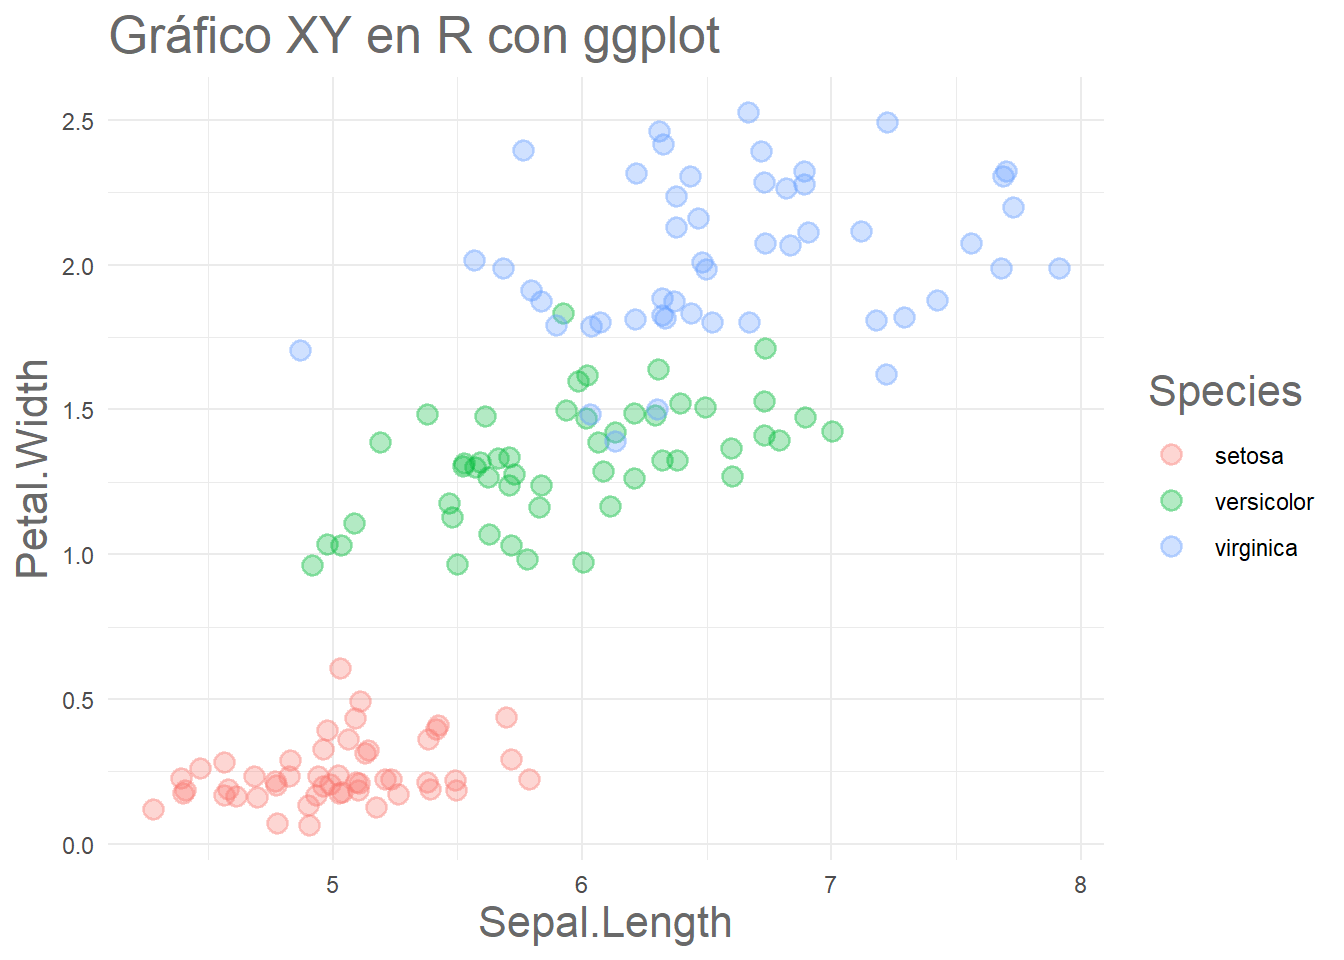
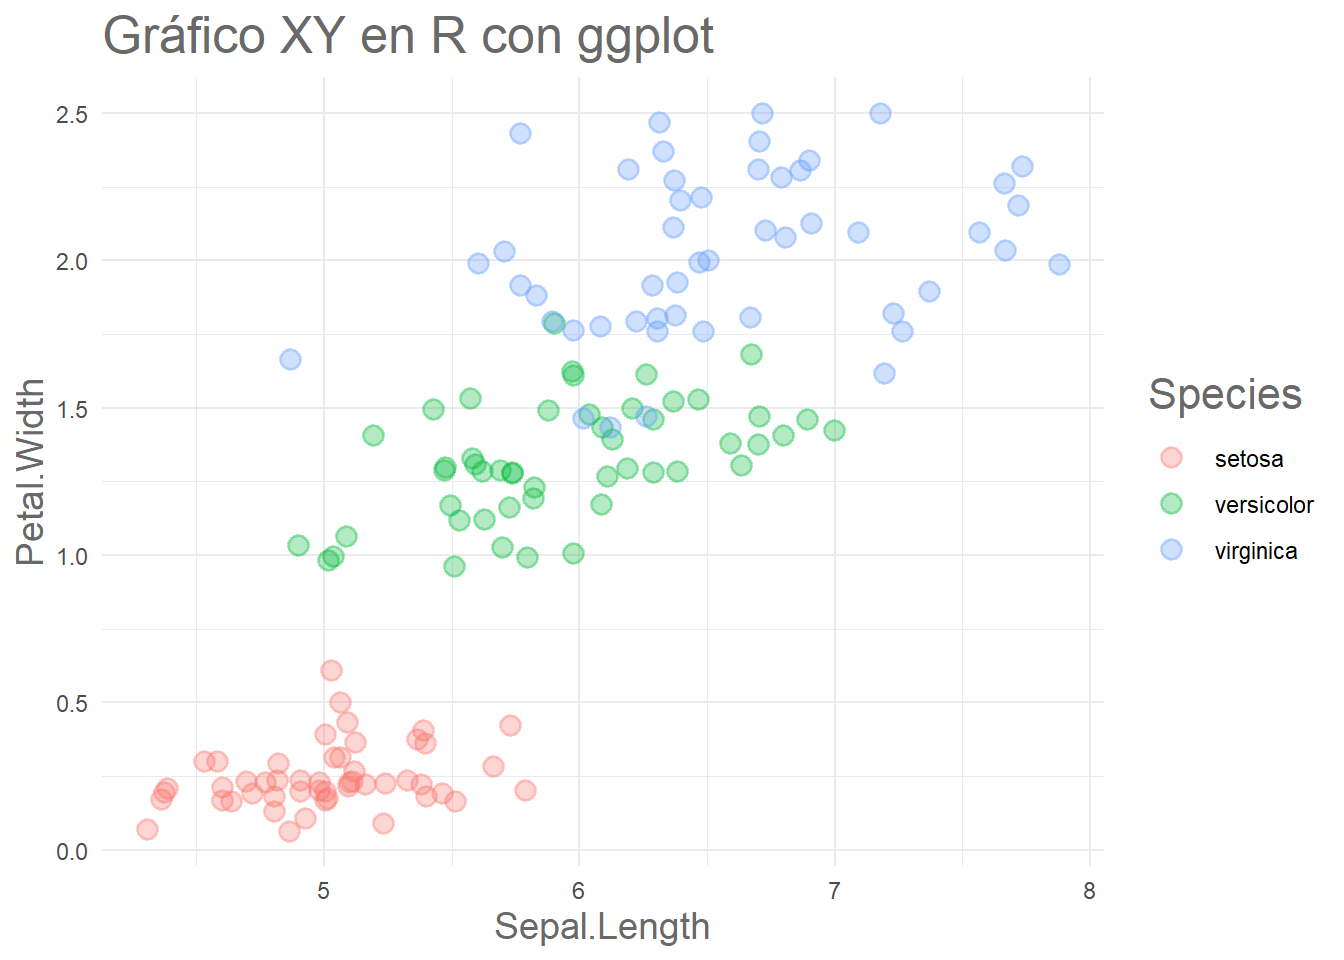
actualizacion excel XY

diff --git a/docs/posts/excel-xy/index.html b/docs/posts/excel-xy/index.html
@@ -278,9 +278,10 @@ code span.wa { color: #60a0b0; font-weight: bold; font-style: italic; } /* Warni
 <li>Añadimos las series una a una tal como hemos hecho antes</li>
 <li>Añadimos rótulos de ejes y gráfico, y otros detalles y retoques que creamos oportunos</li>
 </ul>
-<p>Este es mi gráfico XY final en Excel, que se puede comparar con el que hace <code>ggplot</code>.</p>
+<p>Modificando con el factor de multiplicación en las fórmulas de las columnas calculadas, podemos aumentar el efecto de <code>jitter</code> en caso de que el solapamiento sea excesivo. Al recalcular la tabla dinámica podremos ver el efecto producido y decidir si es bajo, excesivo, o es el que queremos.</p>
+<p>Este es mi gráfico XY final en Excel:</p>
 <p><img src="excel-graf-XY-final.png" class="img-fluid"></p>
-<p>Y este es el gráfico en <code>ggplot</code>, que vimos al principio del artículo</p>
+<p>Y este es el gráfico en <code>ggplot</code>, ligeramente modificado respecto al que vimos al principio del artículo</p>
 <div class="cell">
 <div class="sourceCode cell-code" id="cb3"><pre class="sourceCode r code-with-copy"><code class="sourceCode r"><span id="cb3-1"><a href="#cb3-1" aria-hidden="true" tabindex="-1"></a> <span class="fu">library</span> (ggplot2)</span>
 <span id="cb3-2"><a href="#cb3-2" aria-hidden="true" tabindex="-1"></a><span class="fu">ggplot</span> (iris, <span class="fu">aes</span>(<span class="at">x =</span> Sepal.Length, <span class="at">y =</span> Petal.Width, <span class="at">colour =</span> Species)) <span class="sc">+</span></span>
@@ -289,16 +290,16 @@ code span.wa { color: #60a0b0; font-weight: bold; font-style: italic; } /* Warni
 <span id="cb3-5"><a href="#cb3-5" aria-hidden="true" tabindex="-1"></a>  <span class="fu">theme_minimal</span>() <span class="sc">+</span></span>
 <span id="cb3-6"><a href="#cb3-6" aria-hidden="true" tabindex="-1"></a>  <span class="fu">theme</span>(</span>
 <span id="cb3-7"><a href="#cb3-7" aria-hidden="true" tabindex="-1"></a>    <span class="at">title =</span> <span class="fu">element_text</span>(<span class="at">size=</span><span class="dv">16</span>, <span class="at">face=</span><span class="st">'plain'</span>, <span class="at">colour =</span> <span class="st">"dimgray"</span>),</span>
-<span id="cb3-8"><a href="#cb3-8" aria-hidden="true" tabindex="-1"></a>    <span class="at">axis.title.x =</span> <span class="fu">element_text</span>(<span class="at">colour =</span> <span class="st">"dimgray"</span>),</span>
-<span id="cb3-9"><a href="#cb3-9" aria-hidden="true" tabindex="-1"></a>    <span class="at">axis.title.y =</span> <span class="fu">element_text</span>(<span class="at">colour =</span> <span class="st">"dimgray"</span>),</span>
-<span id="cb3-10"><a href="#cb3-10" aria-hidden="true" tabindex="-1"></a>    <span class="at">axis.title =</span> <span class="fu">element_text</span>(<span class="at">colour =</span> <span class="st">"dimgray"</span>),</span>
-<span id="cb3-11"><a href="#cb3-11" aria-hidden="true" tabindex="-1"></a>  )</span></code><button title="Copy to Clipboard" class="code-copy-button"><i class="bi"></i></button></pre></div>
+<span id="cb3-8"><a href="#cb3-8" aria-hidden="true" tabindex="-1"></a>    <span class="at">axis.title.x =</span> <span class="fu">element_text</span>(<span class="at">size =</span> <span class="dv">14</span>, <span class="at">colour =</span> <span class="st">"dimgray"</span>),</span>
+<span id="cb3-9"><a href="#cb3-9" aria-hidden="true" tabindex="-1"></a>    <span class="at">axis.title.y =</span> <span class="fu">element_text</span>(<span class="at">size =</span> <span class="dv">14</span>, <span class="at">colour =</span> <span class="st">"dimgray"</span>),</span>
+<span id="cb3-10"><a href="#cb3-10" aria-hidden="true" tabindex="-1"></a>  )</span></code><button title="Copy to Clipboard" class="code-copy-button"><i class="bi"></i></button></pre></div>
 <div class="cell-output-display">
 <p><img src="index_files/figure-html/unnamed-chunk-3-1.png" class="img-fluid" width="672"></p>
 </div>
 </div>
-<p>En Excel, jugando con el factor de multiplicación en las fórmulas de las columnas calculadas, podemos aumentar el efecto de <code>jitter</code> en caso de que el solapamiento sea excesivo. Al recalcular la tabla dinámica podremos ver el efecto producido y decidir si es bajo, excesivo, o es el que queremos.</p>
-<p>El gráfico XY en Excel es mucho más largo de hacer que en <code>ggplot</code>, pero es perfectamente realizable, como hemos visto. Tiene la ventaja de la gran facilidad de edición de la hoja de cálculo, que permite un grado de personalización casi ilimitado. Como inconveniente, citar que el uso de estas opciones de personalización no se presentan en forma de código y por lo tanto no siempre son fáciles de reproducir por otras personas. Esa es una de la grandes ventajas del código R: la reproducibilidad de los informes, y una de las razones para promover su utilización no sólo en el mundo de la investigación y la Universidad, sino en la empresa en general.</p>
+<p>El gráfico XY en Excel es mucho más largo de hacer que en <code>ggplot</code>, pero es perfectamente realizable, como hemos visto. Tiene la ventaja de la gran facilidad de edición de la hoja de cálculo, que permite un grado de personalización casi ilimitado.</p>
+<p>Como inconveniente, en Excel el uso de estas opciones de personalización no se presentan en el gráfico de ninguna manera, y por lo tanto no siempre son fáciles de reproducir por otras personas. Es necesario acceder a la hoja original y bucear entre las opciones, algunas de las cuales puede que no sean fáciles de encontrar. En la versión final del gráfico en Excel no hay nada que indique cómo se ha dado el formato de los títulos, las series, los colores, etc. En cambio, en el fragmento de código R, podemos leer con claridad cada opción de formato y de personalización utilizada, y por lo tanto podemos repetir exactamente el gráfico, o utilizar el formato en otro gráfico.</p>
+<p>Esa es una de la grandes ventajas del código R: la reproducibilidad de los informes, y una de las razones para promover su utilización no sólo en el mundo de la investigación y la Universidad, sino en la empresa en general.</p>
 
 
 

diff --git a/docs/index.html b/docs/index.html
@@ -158,7 +158,7 @@ ul.task-list li input[type="checkbox"] {
 
 <div class="quarto-listing quarto-listing-container-default" id="listing-listing">
 <div class="list quarto-listing-default">
-<div class="quarto-post image-right" data-index="0" data-listing-date-sort="1674860400000" data-listing-file-modified-sort="1674846176898" data-listing-reading-time-sort="9.205">
+<div class="quarto-post image-right" data-index="0" data-listing-date-sort="1674860400000" data-listing-file-modified-sort="1674847136273" data-listing-reading-time-sort="9.59">
 <div class="thumbnail">
 <p><a href="./posts/excel-xy/index.html"> <img src="./posts/excel-xy/excel-tabla-iris.png" class="thumnail-image"> </a></p>
 </div>
